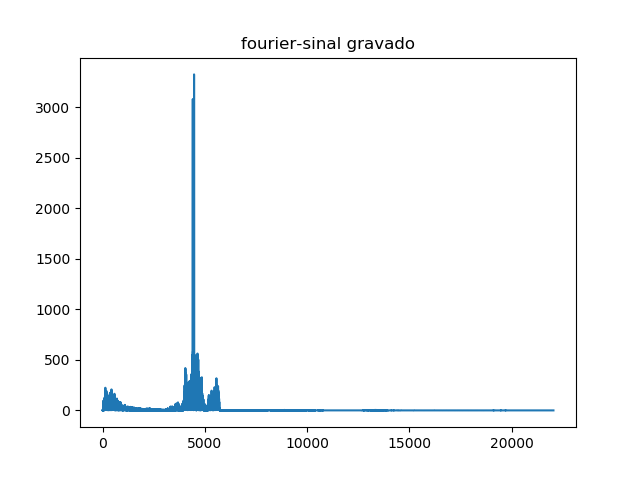
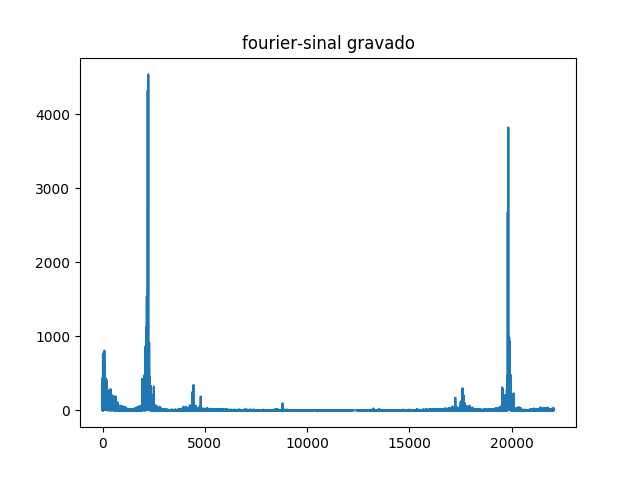
hhhh

diff --git a/08-AM/decode.py b/08-AM/decode.py
@@ -36,21 +36,26 @@ class Decode(object):
     def main(self):
         bib = bibSignal.signalMeu()
         self.recordAudio()
+        plt.figure(num=None, figsize=(14, 14), dpi=80, facecolor='w', edgecolor='k')
+        self.graficoTempo(self.sound, 'Sinal de áudio capitado', 'orange')
+
         bib.plotFFT(self.sound, self.freqAmostra, 'fourier-sinal gravado')
         # print(self.sound)
         # print(f'len = {len(self.sound)}')
-        self.sound = self.demoduleAM()
+        self.sound = self.normalize(self.sound)
+        self.sound = self.moduleAM(self.sound)
 
         sd.play(self.sound, self.freqAmostra) 
         sd.wait()
-        self.plotDemoduleGraph()
+        bib.plotFFT(self.sound, self.freqAmostra, 'Demodulado e filtrado')
         
     def plotDemoduleGraph(self):
         bib = bibSignal.signalMeu()
         xf, yf = bib.calcFFT(self.sound, self.freqAmostra)
         plt.title('Fourier - Demodule')
         plt.plot(xf, yf)
-        plt.show()
+        plt.savefig('Sinal de áudio capitado.png')
+
 
 
     def recordAudio(self):
@@ -67,7 +72,7 @@ class Decode(object):
         print("====================\n")
         
         myrecording = sd.rec(self.duration * self.freqAmostra, samplerate=self.freqAmostra, 
-        channels=2, blocking=True)[0] # Possivelmente é necessário utilizar "channels=2" no ubuntu
+        channels=2, blocking=True)# Possivelmente é necessário utilizar "channels=2" no ubuntu
         sd.wait()
 
         sound = []
@@ -80,22 +85,7 @@ class Decode(object):
         print("======================\n")
         self.sound = sound
 
-    def demoduleAM(self):
-        f = 14000
-        b = bibSignal.signalMeu()
-        # Cx, Cs = b.generateSin(self.freqAmostra, self.amplitude, self.duration, f)
-        Cx, Cs = b.generateSin(f, self.amplitude, self.duration, self.freqAmostra)
 
-        Cs = np.array(Cs)
-
-        S = Cs*self.sound
-        # S = []
-        # for m in range(len(self.sound)):
-        #     S.append(Cs[m]*self.sound[m])
-
-        filtroPB = fpb.PassaBaixa(S, self.freqAmostra)
-        pb = filtroPB.filtro()
-        return pb
 
 
     def getSignal(self):
@@ -171,3 +161,39 @@ class Decode(object):
         """
         sdB = 10*np.log10(s)
         return(sdB)
+
+
+    def graficoTempo(self, signal, title, color):
+        duration = len(signal)/self.freqAmostra
+        tempo = np.linspace(0, duration, num=len(signal))
+        plt.plot(tempo, signal, color)
+        plt.title(title)
+        plt.xlabel('Tempo (s)')
+        plt.show()
+
+    def normalize(self, lista):
+        """
+        Método que normaliza a lista de amplitudes
+        """
+        
+        maximo = max(lista)
+        minimo = min(lista)
+        module = []
+        for e in lista:
+            if (maximo > abs(minimo)):
+                module.append(e/maximo)
+            else:
+                module.append(e/abs(minimo))
+        f = fpb.PassaBaixa(module, self.freqAmostra)
+        pb = f.filtro()
+        return pb
+
+    def moduleAM(self, pb):
+        f = 14000 # freq a ser modulada em Hz
+        b = bibSignal.signalMeu()
+        Cx, Cs = b.generateSin(f, self.amplitude, self.duration, self.freqAmostra)
+        # S = Cs*pb
+        S = []
+        for m in range(len(Cs)):
+            S.append(Cs[m]*pb[m])
+        return S

diff --git a/08-AM/encode.py b/08-AM/encode.py
@@ -39,11 +39,13 @@ class Encode(object):
         b = bibSignal.signalMeu()
         # sd.play(lista, self.freqAmostra)
         # sd.wait()
-        b.plotFFT(lista, self.freqAmostra, 'fourier-01.png')
+        b.plotFFT(lista, self.freqAmostra, 'encodeFourier.png')
         pb = self.normalize(lista)
-        b.plotFFT(pb, self.freqAmostra, 'fourier-normalize.png')
+        b.plotFFT(pb, self.freqAmostra, 'encodeFourier+FiltroPassaBaixa.png')
 
         S = self.moduleAM(pb)
+        b.plotFFT(S, self.freqAmostra, 'encodeFourierModulada.png')
+
         # b = bibSignal.signalMeu()
         #plt.show()
 
